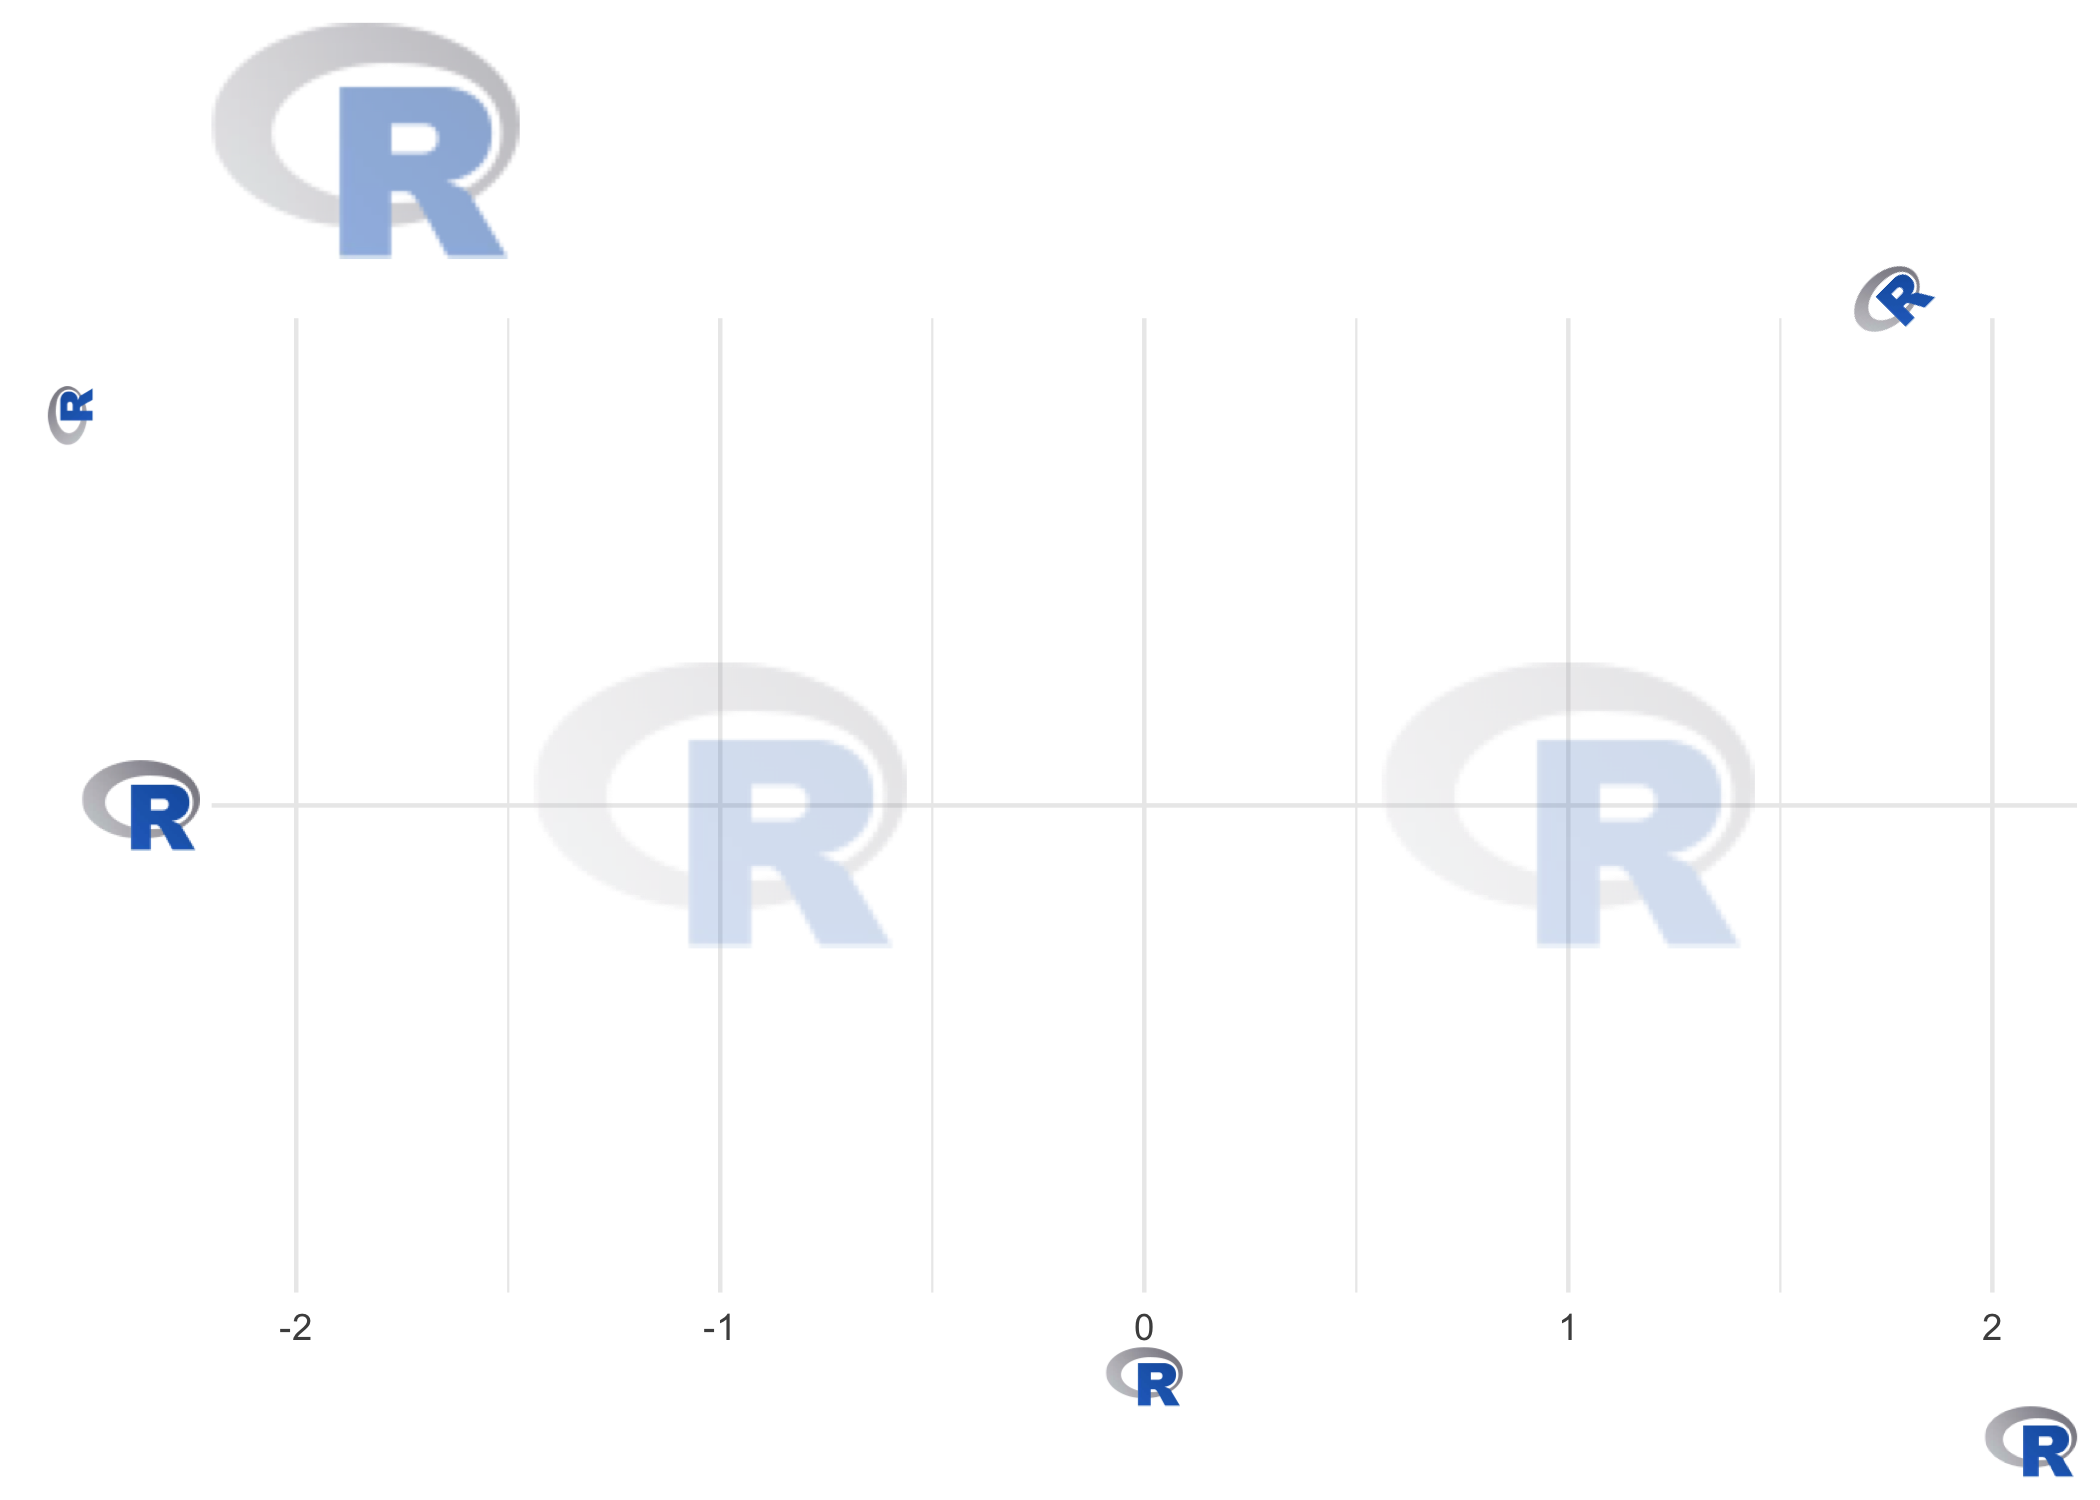
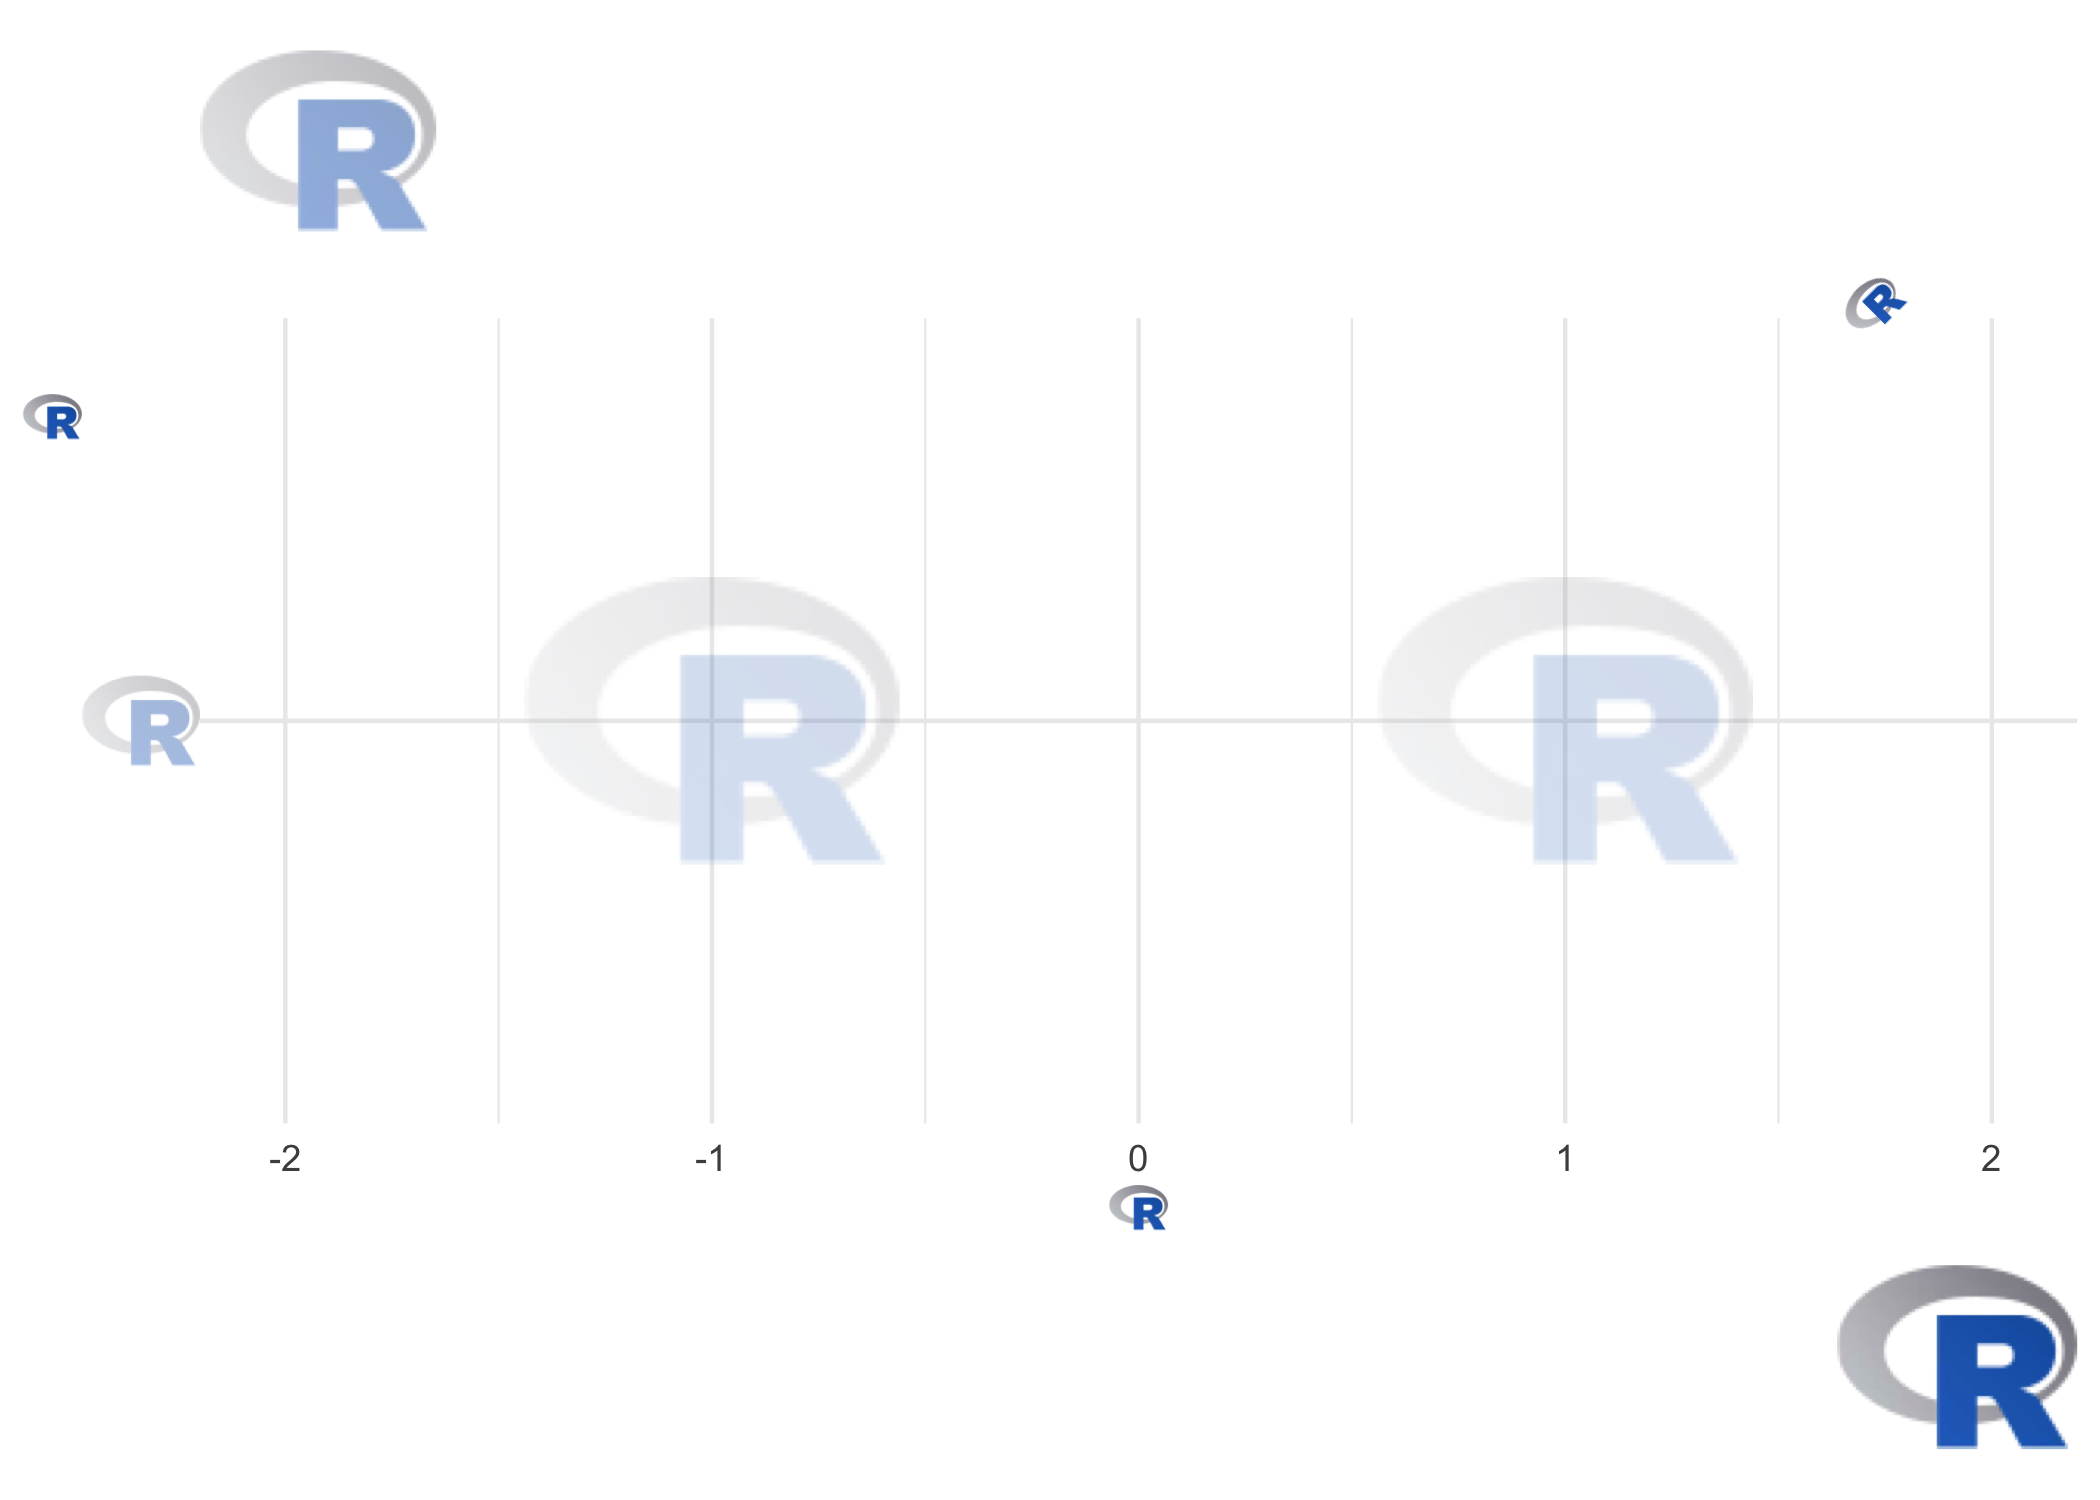
rewrite theme elements in S7

diff --git a/README.md b/README.md
@@ -95,12 +95,12 @@ ggplot(plot_data, aes(x = x, y = local_r_logo)) +
     caption = local_r_logo
   ) +
   theme(
-    plot.caption = element_path(hjust = 1, size = 0.6),
-    axis.text.y = element_path(size = 1),
+    plot.caption = element_path(hjust = 1, size = grid::unit(4, "lines")),
+    axis.text.y.left = element_path(size = 1, alpha = 0.4),
     axis.title.x = element_path(),
     axis.title.y = element_path(vjust = 0.9),
     plot.title = element_path(hjust = 0, size = 2, alpha = 0.5),
-    plot.subtitle = element_path(hjust = 0.9, angle = 45),
+    plot.subtitle = element_path(hjust = 0.9, angle = 45)
   )
 ```
 
@@ -154,7 +154,7 @@ ggplot(plot_data, aes(x = x, y = y)) +
   coord_cartesian(xlim = c(-2, 2)) +
   theme_dark() +
   theme(
-    plot.background = element_raster(local_background_image),
+    plot.background = element_raster(image_path = local_background_image),
     panel.background = element_rect(fill = "transparent")
   )
 ```
